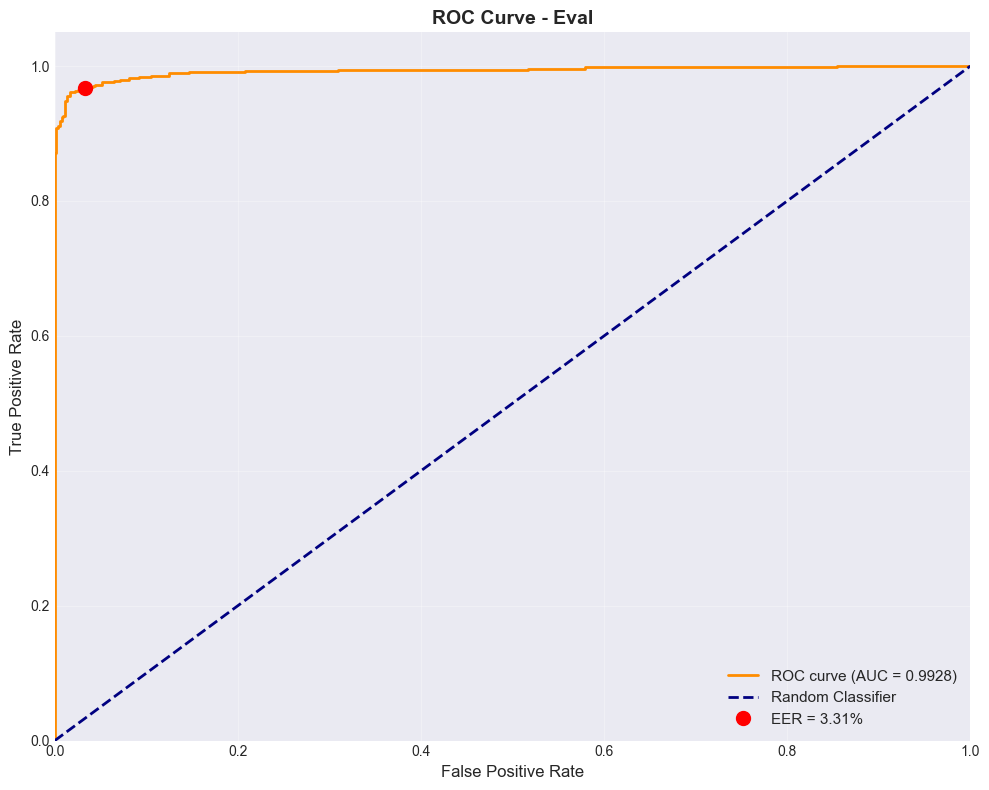
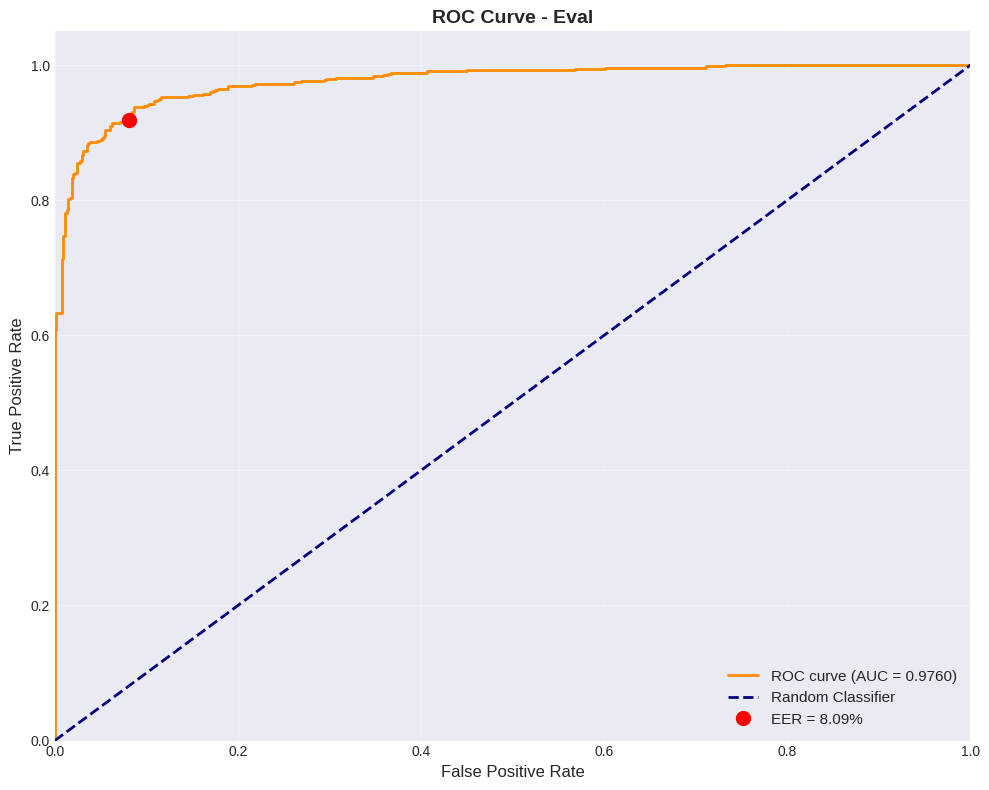
feat: Update evaluation results images and metrics in documentation

diff --git a/docs/results.md b/docs/results.md
@@ -87,16 +87,16 @@ This document presents the **Evaluation** set results for various deep learning 
 
 #### Evaluation Set Metrics
 
-| Metric   | Value  |
-| -------- | ------ |
-| Accuracy | 89.43% |
-| ROC AUC  |  0.9668 |
-| EER      | 10.6618%|
+| Metric   | Value    |
+| -------- | -------- |
+| Accuracy | 89.43%   |
+| ROC AUC  | 0.9668   |
+| EER      | 10.6618% |
 
 | Class         | Precision | Recall | F1-Score |
 | ------------- | --------- | ------ | -------- |
-| Fake/Spoof    |   0.8950  | 0.8934 | 0.8942   |
-| Real/Bonafide |  0.8936   | 0.8952 | 0.8944   |
+| Fake/Spoof    | 0.8950    | 0.8934 | 0.8942   |
+| Real/Bonafide | 0.8936    | 0.8952 | 0.8944   |
 
 <p float="left" align="center">
   <img src="images/results_5_9.png" width="45%" title="Confusion Matrix (Eval)" />
@@ -139,14 +139,14 @@ This document presents the **Evaluation** set results for various deep learning 
 
 | Metric   | Value  |
 | -------- | ------ |
-| Accuracy | 96.78% |
-| ROC AUC  | 0.9928 |
-| EER      | 3.31%  |
+| Accuracy | 92.00% |
+| ROC AUC  | 0.9760 |
+| EER      | 8.09%  |
 
 | Class         | Precision | Recall | F1-Score |
 | ------------- | --------- | ------ | -------- |
-| Fake/Spoof    | 0.9687    | 0.9669 | 0.9678   |
-| Real/Bonafide | 0.9670    | 0.9688 | 0.9679   |
+| Fake/Spoof    | 0.9208    | 0.9191 | 0.9200   |
+| Real/Bonafide | 0.9193    | 0.9210 | 0.9201   |
 
 <p float="left" align="center">
   <img src="images/results_7_9.png" width="45%" title="Confusion Matrix (Eval)" />
@@ -568,16 +568,16 @@ This document presents the **Evaluation** set results for various deep learning 
 
 ---
 
-## Summary Table (Eval)
+## Summary Table
 
 | Model                       | Feature Type    | Eval Accuracy | Eval EER  | Eval ROC AUC |
 | --------------------------- | --------------- | ------------- | --------- | ------------ |
 | EfficientNet-B2 + Attention | Mel Spectrogram | **97.70%**    | **2.39%** | 0.9978       |
 | EfficientNet-B2 + Attention | MFCC            | 76.75%        | 23.35%    | 0.8357       |
 | EfficientNet-B2 + Attention | CQT             | 96.05%        | 3.68%     | 0.9905       |
-| EfficientNet-B2             | Mel Spectrogram | 96.97%        | 3.12%     | 0.9944       |
+| EfficientNet-B2             | Mel Spectrogram | 89.43%        | 10.66%    | 0.9668       |
 | EfficientNet-B2             | MFCC            | 72.52%        | 27.57%    | 0.8100       |
-| EfficientNet-B2             | CQT             | 96.78%        | 3.31%     | 0.9928       |
+| EfficientNet-B2             | CQT             | 92.00%        | 8.09%     | 0.9760       |
 | LCNN Large                  | Mel Spectrogram | 91.82%        | 8.27%     | 0.9771       |
 | LCNN Large                  | MFCC            | 84.01%        | 15.99%    | 0.9244       |
 | LCNN Large                  | CQT             | 94.12%        | 5.88%     | 0.9867       |
